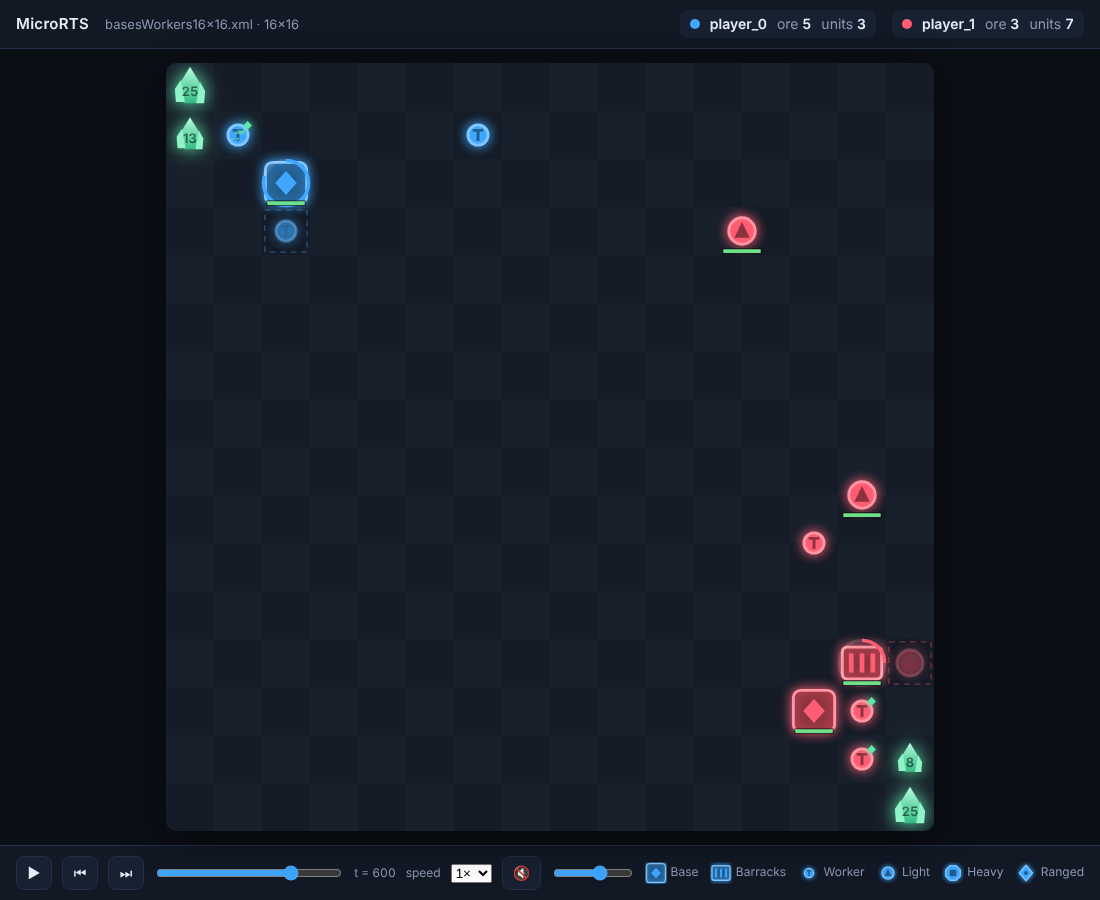
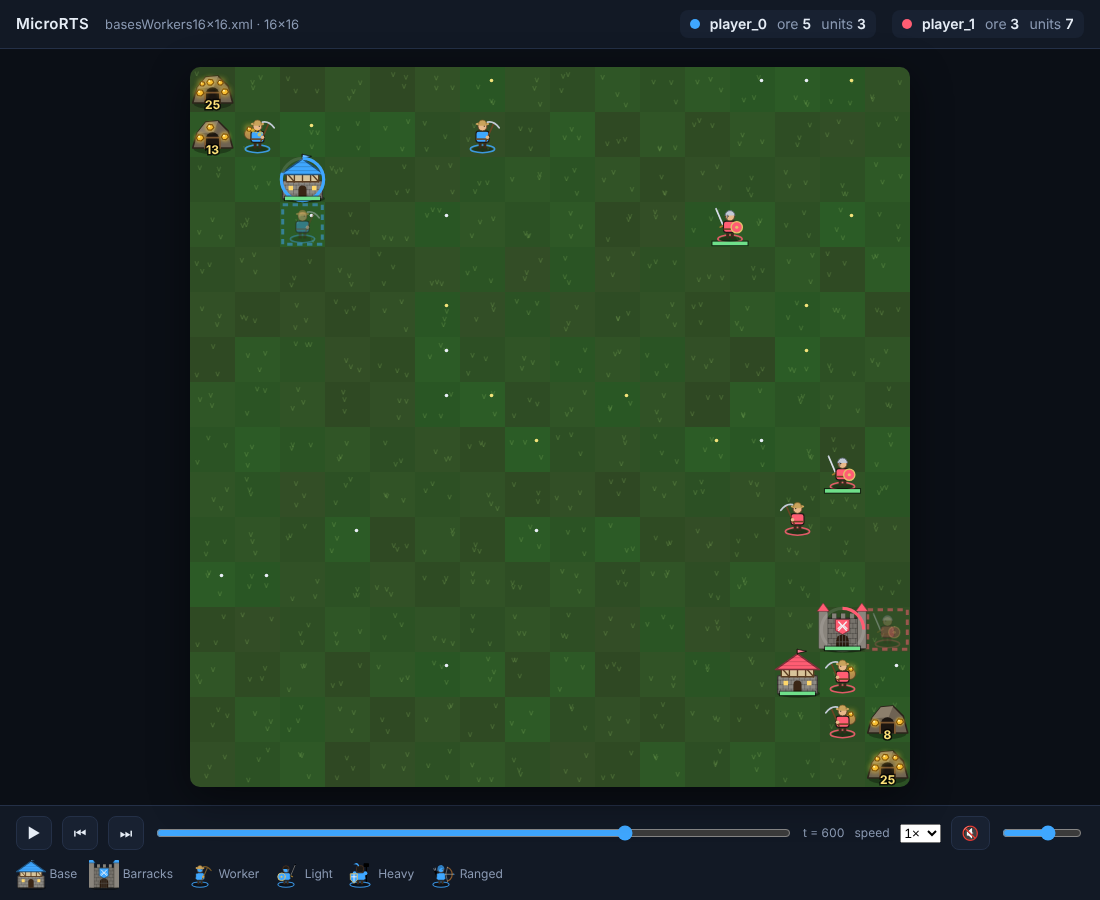
Redraw viewer art as recognisable RTS sprites
Town hall and fortified barracks with team-coloured roofs and banners,
peasants with pickaxes and gold sacks, swordsmen, armoured knights and
archers, gold mines and grass/rock terrain. Everything is still drawn in
code (no image assets); player 1 units are mirrored to face the enemy.
Static terrain is cached to an offscreen canvas. README screenshot refreshed.

Claude-Session: https://claude.ai/code/session_017XfcmLXvoAChBbNb37naRZ

diff --git a/microrts_pz/render/viewer.html b/microrts_pz/render/viewer.html
@@ -9,7 +9,7 @@
 <style>
   :root {
     --bg: #0b0f16; --panel: #121925; --panel-2: #182131; --line: #243047;
-    --text: #e6edf6; --muted: #8a99b2; --p0: #3fa7ff; --p1: #ff5d73; --gold: #5ee6a8;
+    --text: #e6edf6; --muted: #8a99b2; --p0: #3fa7ff; --p1: #ff5d73; --gold: #ffcc33;
   }
   * { box-sizing: border-box; }
   html, body { margin: 0; height: 100%; background: var(--bg); color: var(--text);
@@ -218,83 +218,222 @@ function shade(hex, k) {
   return `rgb(${f(r)},${f(g)},${f(b)})`;
 }
 
+// Everything below is drawn procedurally (no image assets). Sprites are drawn in a
+// local frame where the cell spans -1..1 on both axes, centred on the unit.
+function hash(x, y) {
+  let h = (x * 374761393 + y * 668265263) | 0;
+  h = Math.imul(h ^ (h >>> 13), 1274126177);
+  return ((h ^ (h >>> 16)) >>> 0) / 4294967296;
+}
+function circle(x, y, r) { ctx.beginPath(); ctx.arc(x, y, r, 0, Math.PI * 2); }
+function ellipse(x, y, rx, ry) { ctx.beginPath(); ctx.ellipse(x, y, rx, ry, 0, 0, Math.PI * 2); }
+function line(x0, y0, x1, y1) { ctx.beginPath(); ctx.moveTo(x0, y0); ctx.lineTo(x1, y1); ctx.stroke(); }
+function sprite(cx, cy, flip, fn) {
+  ctx.save(); ctx.translate(cx, cy); ctx.scale(flip ? -cell / 2 : cell / 2, cell / 2);
+  ctx.lineJoin = "round"; ctx.lineCap = "round"; ctx.lineWidth = 0.06;
+  fn(); ctx.restore();
+}
+
+var terrainCanvas = null, terrainKey = null;
 function drawTerrain() {
-  const W = meta.width, H = meta.height;
-  for (let y = 0; y < H; y++) for (let x = 0; x < W; x++) {
-    const wall = meta.terrain[y * W + x] === "1";
-    if (wall) {
-      ctx.fillStyle = "#2a3242"; ctx.fillRect(x * cell, y * cell, cell, cell);
-      ctx.fillStyle = "#353f53"; ctx.fillRect(x * cell + 2, y * cell + 2, cell - 4, cell * 0.45);
-      ctx.fillStyle = "#1e2531"; ctx.fillRect(x * cell + 2, y * cell + cell * 0.55, cell - 4, cell * 0.4);
-    } else {
-      ctx.fillStyle = (x + y) % 2 ? "#151c27" : "#18202c";
-      ctx.fillRect(x * cell, y * cell, cell, cell);
-    }
+  const W = meta.width, H = meta.height, key = [meta.terrain, W, H, cell, dpr].join("|");
+  if (terrainKey !== key) {                       // grass + rocks are static: render once
+    terrainKey = key; terrainCanvas = document.createElement("canvas");
+    terrainCanvas.width = W * cell * dpr; terrainCanvas.height = H * cell * dpr;
+    const orig = ctx; ctx = terrainCanvas.getContext("2d"); ctx.setTransform(dpr, 0, 0, dpr, 0, 0);
+    try {
+      for (let y = 0; y < H; y++) for (let x = 0; x < W; x++) {
+        const h = hash(x, y), px = x * cell, py = y * cell;
+        ctx.fillStyle = `hsl(${100 + h * 14},${34 + h * 8}%,${21.5 + ((x + y) % 2) * 0.7 + h * 2}%)`;
+        ctx.fillRect(px, py, cell, cell);
+        ctx.strokeStyle = "rgba(160,210,110,.16)"; ctx.lineWidth = Math.max(1, cell * 0.03);
+        for (let i = 0; i < 3; i++) {                // grass tufts
+          const gx = px + cell * (0.15 + 0.7 * hash(x * 7 + i, y * 3)), gy = py + cell * (0.2 + 0.7 * hash(x * 5, y * 11 + i));
+          line(gx, gy, gx - cell * 0.04, gy - cell * 0.1); line(gx, gy, gx + cell * 0.04, gy - cell * 0.1);
+        }
+        if (h > 0.9) { ctx.fillStyle = h > 0.95 ? "#f3e27a" : "#e9eef7"; circle(px + cell * 0.7, py + cell * 0.3, cell * 0.04); ctx.fill(); }
+      }
+      for (let y = 0; y < H; y++) for (let x = 0; x < W; x++) {
+        if (meta.terrain[y * W + x] !== "1") continue;
+        sprite((x + 0.5) * cell, (y + 0.5) * cell, false, () => {
+          ctx.fillStyle = "#3a3630"; ctx.fillRect(-1, -1, 2, 2);
+          const rocks = [[-0.45, 0.3, 0.55], [0.4, 0.35, 0.5], [0, -0.35, 0.62]];
+          for (const [rx, ry, r] of rocks) {
+            const j = hash(x * 13 + rx * 10, y * 17 + ry * 10) * 0.15;
+            poly([[rx - r, ry + r * 0.6], [rx - r * 0.8, ry - r * 0.4], [rx - r * 0.1, ry - r * (0.9 + j)], [rx + r * 0.75, ry - r * 0.5], [rx + r, ry + r * 0.55]]);
+            ctx.fillStyle = "#7d7568"; ctx.fill(); ctx.strokeStyle = "#26231f"; ctx.lineWidth = 0.07; ctx.stroke();
+            poly([[rx - r * 0.8, ry - r * 0.4], [rx - r * 0.1, ry - r * (0.9 + j)], [rx + r * 0.75, ry - r * 0.5], [rx, ry - r * 0.1]]);
+            ctx.fillStyle = "#a59c8c"; ctx.fill();
+          }
+        });
+      }
+    } finally { ctx = orig; }
   }
+  ctx.drawImage(terrainCanvas, 0, 0, W * cell, H * cell);
+}
+
+function nugget(x, y, r) {
+  poly([[x - r, y], [x - r * 0.4, y - r * 0.8], [x + r * 0.6, y - r * 0.7], [x + r, y + r * 0.1], [x + r * 0.3, y + r * 0.8], [x - r * 0.6, y + r * 0.7]]);
+  ctx.fillStyle = "#f5b82e"; ctx.fill(); ctx.strokeStyle = "#7a4d0a"; ctx.lineWidth = 0.05; ctx.stroke();
+  ctx.fillStyle = "#fff2a8"; circle(x - r * 0.25, y - r * 0.3, r * 0.28); ctx.fill();
 }
 
 function drawResource(cx, cy, amount) {
-  const s = cell * (0.28 + 0.14 * Math.min(1, amount / 20));
-  ctx.save(); ctx.shadowColor = ORE; ctx.shadowBlur = cell * 0.35;
-  const g = ctx.createLinearGradient(cx, cy - s, cx, cy + s);
-  g.addColorStop(0, "#b9ffe0"); g.addColorStop(1, "#1fa874");
-  ctx.fillStyle = g;
-  poly([[cx, cy - s], [cx + s * 0.55, cy - s * 0.1], [cx + s * 0.3, cy + s * 0.8], [cx - s * 0.3, cy + s * 0.8], [cx - s * 0.55, cy - s * 0.1]]);
-  ctx.fill();
-  ctx.fillStyle = "#8ff5c8";
-  poly([[cx - s * 0.75, cy + s * 0.1], [cx - s * 0.45, cy - s * 0.35], [cx - s * 0.25, cy + s * 0.75], [cx - s * 0.7, cy + s * 0.75]]); ctx.fill();
-  poly([[cx + s * 0.75, cy + s * 0.2], [cx + s * 0.5, cy - s * 0.25], [cx + s * 0.3, cy + s * 0.8], [cx + s * 0.7, cy + s * 0.8]]); ctx.fill();
-  ctx.restore();
+  const full = Math.min(1, amount / 20);
+  sprite(cx, cy, false, () => {
+    ctx.fillStyle = "rgba(0,0,0,.3)"; ellipse(0, 0.62, 0.85, 0.25); ctx.fill();
+    poly([[-0.88, 0.6], [-0.7, -0.05], [-0.3, -0.55], [0.25, -0.6], [0.7, -0.15], [0.9, 0.6]]);   // rocky mound
+    ctx.fillStyle = "#6e6253"; ctx.fill(); ctx.strokeStyle = "#2c241b"; ctx.lineWidth = 0.07; ctx.stroke();
+    poly([[-0.7, -0.05], [-0.3, -0.55], [0.25, -0.6], [0.05, -0.1]]); ctx.fillStyle = "#8c7f6c"; ctx.fill();
+    ctx.fillStyle = "#1c1611"; ctx.beginPath(); ctx.moveTo(-0.3, 0.6); ctx.lineTo(-0.3, 0.2);   // mine entrance
+    ctx.arc(0, 0.2, 0.3, Math.PI, 0); ctx.lineTo(0.3, 0.6); ctx.closePath(); ctx.fill();
+    ctx.strokeStyle = "#7a5530"; ctx.lineWidth = 0.08; line(-0.33, 0.6, -0.33, 0.15); line(0.33, 0.6, 0.33, 0.15); line(-0.38, 0.14, 0.38, 0.14);
+    const spots = [[-0.55, 0.15, 0.17], [0.55, 0.1, 0.16], [-0.1, -0.32, 0.16], [0.35, -0.3, 0.13], [-0.45, -0.25, 0.12]];
+    const n = Math.max(1, Math.round(full * spots.length));
+    ctx.save(); ctx.shadowColor = "#ffcf40"; ctx.shadowBlur = cell * 0.15 * full;
+    for (let i = 0; i < n; i++) nugget(...spots[i]);
+    ctx.restore();
+  });
   if (cell >= 22) {
-    ctx.fillStyle = "rgba(0,0,0,.55)"; ctx.font = `600 ${Math.round(cell * 0.28)}px ui-sans-serif, system-ui`;
-    ctx.textAlign = "center"; ctx.textBaseline = "middle"; ctx.fillText(amount, cx, cy + s * 0.25);
+    const fs = Math.round(cell * 0.26);
+    ctx.font = `700 ${fs}px ui-sans-serif, system-ui`; ctx.textAlign = "center"; ctx.textBaseline = "middle";
+    ctx.lineWidth = 3; ctx.strokeStyle = "rgba(0,0,0,.75)"; ctx.strokeText(amount, cx, cy + cell * 0.36);
+    ctx.fillStyle = "#ffe27a"; ctx.fillText(amount, cx, cy + cell * 0.36);
   }
 }
 
+// --- buildings
+function brickRows(x0, y0, x1, y1, rows) {
+  ctx.strokeStyle = "rgba(0,0,0,.28)"; ctx.lineWidth = 0.03;
+  const h = (y1 - y0) / rows;
+  for (let r = 1; r < rows; r++) line(x0, y0 + r * h, x1, y0 + r * h);
+  for (let r = 0; r < rows; r++) for (let x = x0 + (r % 2 ? 0.12 : 0.24); x < x1; x += 0.24) line(x, y0 + r * h, x, y0 + (r + 1) * h);
+}
+function flag(x, y, col, h) {
+  ctx.strokeStyle = "#3b2a1a"; ctx.lineWidth = 0.06; line(x, y, x, y - h);
+  poly([[x, y - h], [x + 0.4, y - h + 0.09], [x, y - h + 0.18]]); ctx.fillStyle = col; ctx.fill();
+  ctx.strokeStyle = shade(col, -0.5); ctx.lineWidth = 0.03; ctx.stroke();
+}
+function townHall(col, dark) {
+  ctx.fillStyle = "rgba(0,0,0,.35)"; ellipse(0.05, 0.85, 0.95, 0.18); ctx.fill();
+  rr(-0.88, 0.05, 1.76, 0.8, 0.05); ctx.fillStyle = "#8d8a84"; ctx.fill(); ctx.strokeStyle = "#3a3632"; ctx.lineWidth = 0.06; ctx.stroke();
+  brickRows(-0.88, 0.05, 0.88, 0.85, 4);
+  ctx.fillStyle = "#d8c49a"; ctx.fillRect(-0.72, -0.3, 1.44, 0.4);                              // timber upper floor
+  ctx.strokeStyle = "#5a3d22"; ctx.lineWidth = 0.06; ctx.strokeRect(-0.72, -0.3, 1.44, 0.4);
+  for (const x of [-0.36, 0, 0.36]) line(x, -0.3, x, 0.1);
+  line(-0.72, -0.3, -0.36, 0.1); line(0.36, -0.3, 0.72, 0.1);
+  poly([[-0.98, -0.22], [0, -0.92], [0.98, -0.22]]); ctx.fillStyle = col; ctx.fill();              // team roof
+  ctx.strokeStyle = dark; ctx.lineWidth = 0.07; ctx.stroke();
+  ctx.strokeStyle = "rgba(0,0,0,.22)"; ctx.lineWidth = 0.035;
+  for (let i = 1; i < 4; i++) line(-0.98 + i * 0.245, -0.22 - i * 0.175, 0.98 - i * 0.245, -0.22 - i * 0.175);
+  ctx.fillStyle = "#ffd76a"; ctx.fillRect(-0.62, 0.28, 0.2, 0.2); ctx.fillRect(0.42, 0.28, 0.2, 0.2);   // lit windows
+  ctx.fillStyle = "#3a2615"; ctx.beginPath(); ctx.moveTo(-0.18, 0.85); ctx.lineTo(-0.18, 0.45);          // door
+  ctx.arc(0, 0.45, 0.18, Math.PI, 0); ctx.lineTo(0.18, 0.85); ctx.closePath(); ctx.fill();
+  flag(0, -0.9, shade(col, 0.25), 0.22);
+}
+function barracks(col, dark) {
+  ctx.fillStyle = "rgba(0,0,0,.35)"; ellipse(0.05, 0.85, 0.95, 0.18); ctx.fill();
+  ctx.fillStyle = "#77736c"; ctx.strokeStyle = "#2f2c28"; ctx.lineWidth = 0.06;
+  rr(-0.86, -0.5, 1.72, 1.35, 0.04); ctx.fill(); ctx.stroke();
+  brickRows(-0.86, -0.5, 0.86, 0.85, 6);
+  for (let i = 0; i < 5; i++) {                                                                       // battlements
+    const x = -0.86 + i * 0.395; ctx.fillStyle = "#86827a"; ctx.fillRect(x, -0.72, 0.2, 0.24); ctx.strokeRect(x, -0.72, 0.2, 0.24);
+  }
+  for (const s of [-1, 1]) {                                                                          // side towers
+    rr(s * 0.86 - 0.2, -0.85, 0.4, 1.7, 0.04); ctx.fillStyle = "#8a857d"; ctx.fill(); ctx.stroke();
+    poly([[s * 0.86 - 0.26, -0.82], [s * 0.86, -1.18], [s * 0.86 + 0.26, -0.82]]); ctx.fillStyle = col; ctx.fill();
+    ctx.strokeStyle = dark; ctx.stroke(); ctx.strokeStyle = "#2f2c28";
+  }
+  poly([[-0.3, -0.45], [0.3, -0.45], [0.3, 0.05], [0, 0.22], [-0.3, 0.05]]); ctx.fillStyle = col; ctx.fill();   // banner
+  ctx.strokeStyle = dark; ctx.lineWidth = 0.04; ctx.stroke();
+  ctx.strokeStyle = "#f1f4f8"; ctx.lineWidth = 0.06; line(-0.17, -0.33, 0.17, 0.03); line(0.17, -0.33, -0.17, 0.03);  // crossed swords
+  ctx.lineWidth = 0.05; line(-0.2, -0.04, -0.08, -0.16); line(0.2, -0.04, 0.08, -0.16);
+  ctx.fillStyle = "#2a1a0d"; ctx.beginPath(); ctx.moveTo(-0.28, 0.85); ctx.lineTo(-0.28, 0.5);           // gate
+  ctx.arc(0, 0.5, 0.28, Math.PI, 0); ctx.lineTo(0.28, 0.85); ctx.closePath(); ctx.fill();
+  ctx.strokeStyle = "#5c5a57"; ctx.lineWidth = 0.035;
+  for (const x of [-0.14, 0, 0.14]) line(x, 0.25, x, 0.85);
+  line(-0.28, 0.55, 0.28, 0.55);
+}
+
+// --- people. Local frame: feet at y≈0.6, head at y≈-0.35; units face right (mirrored for player 1).
+var SKIN = "#e8b98a", LEATHER = "#6b4423", STEEL = "#c3cad6", STEEL_D = "#5d6675";
+function person(col, dark, k = 1, armour = null) {
+  ctx.fillStyle = "rgba(0,0,0,.35)"; ellipse(0, 0.66, 0.46 * k, 0.13); ctx.fill();
+  ctx.strokeStyle = col; ctx.lineWidth = 0.07; ctx.globalAlpha *= 0.85; ellipse(0, 0.64, 0.54 * k, 0.17); ctx.stroke();   // team ring
+  ctx.globalAlpha /= 0.85;
+  ctx.fillStyle = "#3a2a1c"; ctx.fillRect(-0.17 * k, 0.28, 0.13 * k, 0.34); ctx.fillRect(0.04 * k, 0.28, 0.13 * k, 0.34);   // legs
+  rr(-0.29 * k, -0.15, 0.58 * k, 0.5, 0.12); ctx.fillStyle = armour || col; ctx.fill();
+  ctx.strokeStyle = "#1d1a17"; ctx.lineWidth = 0.05; ctx.stroke();
+  if (armour) { ctx.fillStyle = col; ctx.fillRect(-0.1 * k, -0.13, 0.2 * k, 0.46); }                // team tabard
+  ctx.fillStyle = LEATHER; ctx.fillRect(-0.29 * k, 0.17, 0.58 * k, 0.07);                         // belt
+  circle(0, -0.36, 0.2); ctx.fillStyle = SKIN; ctx.fill(); ctx.strokeStyle = "#5a3b22"; ctx.lineWidth = 0.04; ctx.stroke();
+  ctx.fillStyle = "#1d1a17"; circle(0.08, -0.38, 0.03); ctx.fill();                               // eye (facing right)
+}
+function worker(col, dark, carrying) {
+  if (carrying) {                                                                                    // gold sack on the back
+    circle(-0.34, -0.02, 0.24); ctx.fillStyle = "#b08850"; ctx.fill(); ctx.strokeStyle = "#5b4020"; ctx.lineWidth = 0.04; ctx.stroke();
+    ctx.save(); ctx.shadowColor = "#ffcf40"; ctx.shadowBlur = cell * 0.15; nugget(-0.36, -0.24, 0.12); ctx.restore();
+  }
+  person(col, dark);
+  ctx.fillStyle = "#c9a35c"; ctx.beginPath(); ctx.ellipse(0, -0.47, 0.3, 0.08, 0, 0, Math.PI * 2); ctx.fill();   // straw hat
+  ctx.beginPath(); ctx.arc(0, -0.47, 0.17, Math.PI, 0); ctx.fill(); ctx.strokeStyle = "#7a5a26"; ctx.lineWidth = 0.03; ctx.stroke();
+  ctx.strokeStyle = LEATHER; ctx.lineWidth = 0.07; line(0.15, 0.3, 0.48, -0.45);                     // pickaxe
+  ctx.strokeStyle = "#9aa3b1"; ctx.lineWidth = 0.12; ctx.beginPath(); ctx.moveTo(0.26, -0.58); ctx.quadraticCurveTo(0.52, -0.6, 0.68, -0.34); ctx.stroke();
+  ctx.fillStyle = SKIN; circle(0.22, 0.12, 0.08); ctx.fill();
+}
+function swordsman(col, dark) {
+  ctx.strokeStyle = STEEL; ctx.lineWidth = 0.08; line(0.3, 0.05, 0.62, -0.7);                       // sword
+  ctx.strokeStyle = "#e9edf3"; ctx.lineWidth = 0.03; line(0.33, 0.0, 0.6, -0.64);
+  ctx.strokeStyle = "#a07a2c"; ctx.lineWidth = 0.07; line(0.18, -0.02, 0.44, 0.12);
+  person(col, dark);
+  ctx.fillStyle = STEEL; ctx.beginPath(); ctx.arc(0, -0.4, 0.22, Math.PI, 0); ctx.fill();           // helmet
+  ctx.strokeStyle = STEEL_D; ctx.lineWidth = 0.04; ctx.stroke(); line(0.12, -0.42, 0.12, -0.28);
+  circle(-0.3, 0.12, 0.25); ctx.fillStyle = col; ctx.fill(); ctx.strokeStyle = "#e3c26a"; ctx.lineWidth = 0.06; ctx.stroke();   // round shield
+  circle(-0.3, 0.12, 0.07); ctx.fillStyle = "#e3c26a"; ctx.fill();
+}
+function knight(col, dark) {
+  const k = 1.25;
+  ctx.strokeStyle = LEATHER; ctx.lineWidth = 0.09; line(0.42, 0.45, 0.42, -0.62);                     // war hammer
+  ctx.fillStyle = STEEL_D; rr(0.24, -0.78, 0.36, 0.24, 0.04); ctx.fill(); ctx.fillStyle = STEEL; ctx.fillRect(0.27, -0.75, 0.3, 0.08);
+  person(col, dark, k, STEEL);
+  ctx.fillStyle = STEEL; rr(-0.23, -0.62, 0.46, 0.46, 0.14); ctx.fill();                           // great helm
+  ctx.strokeStyle = STEEL_D; ctx.lineWidth = 0.04; ctx.stroke();
+  ctx.fillStyle = "#1d1a17"; ctx.fillRect(-0.02, -0.46, 0.22, 0.05); ctx.fillRect(0.06, -0.46, 0.04, 0.16);
+  ctx.fillStyle = col; ctx.beginPath(); ctx.moveTo(-0.05, -0.6); ctx.quadraticCurveTo(-0.15, -0.95, -0.45, -0.7);   // plume
+  ctx.quadraticCurveTo(-0.2, -0.75, -0.12, -0.58); ctx.fill();
+  ctx.fillStyle = STEEL; circle(-0.36, -0.12, 0.13); ctx.fill(); circle(0.36, -0.12, 0.13); ctx.fill();   // pauldrons
+  poly([[-0.62, -0.08], [-0.18, -0.08], [-0.18, 0.32], [-0.4, 0.55], [-0.62, 0.32]]);              // kite shield
+  ctx.fillStyle = col; ctx.fill(); ctx.strokeStyle = "#e3c26a"; ctx.lineWidth = 0.06; ctx.stroke();
+  ctx.strokeStyle = "#f1f4f8"; ctx.lineWidth = 0.06; line(-0.4, -0.02, -0.4, 0.42); line(-0.56, 0.12, -0.24, 0.12);
+}
+function archer(col, dark) {
+  ctx.fillStyle = LEATHER; ctx.save(); ctx.translate(-0.3, -0.05); ctx.rotate(-0.4); ctx.fillRect(-0.07, -0.3, 0.14, 0.42); ctx.restore();   // quiver
+  ctx.strokeStyle = "#e9edf3"; ctx.lineWidth = 0.03; line(-0.42, -0.3, -0.48, -0.42); line(-0.36, -0.33, -0.38, -0.46);
+  person(col, dark);
+  ctx.fillStyle = shade(col, -0.25); ctx.beginPath(); ctx.moveTo(-0.24, -0.25);                      // hood
+  ctx.quadraticCurveTo(-0.28, -0.7, 0.05, -0.66); ctx.quadraticCurveTo(0.26, -0.55, 0.22, -0.36); ctx.lineTo(0.14, -0.42);
+  ctx.quadraticCurveTo(0.0, -0.55, -0.1, -0.36); ctx.lineTo(-0.24, -0.25); ctx.fill();
+  ctx.strokeStyle = "#8b5a2b"; ctx.lineWidth = 0.08; ctx.beginPath(); ctx.arc(0.25, -0.05, 0.5, -1.2, 1.2); ctx.stroke();   // bow
+  const bx = 0.25 + 0.5 * Math.cos(1.2), by = 0.5 * Math.sin(1.2);
+  ctx.strokeStyle = "#f2efe6"; ctx.lineWidth = 0.025; line(bx, -0.05 - by, 0.32, -0.05); line(0.32, -0.05, bx, -0.05 + by);
+  ctx.strokeStyle = "#d9c9a8"; ctx.lineWidth = 0.035; line(0.32, -0.05, 0.85, -0.05);               // nocked arrow
+  ctx.fillStyle = STEEL; poly([[0.92, -0.05], [0.82, -0.11], [0.82, 0.01]]); ctx.fill();
+}
+
 function drawUnit(name, player, cx, cy, carrying, alpha) {
-  const col = COLORS[player] || "#999", dark = shade(col, -0.45), light = shade(col, 0.35);
+  const col = COLORS[player] || "#999", dark = shade(col, -0.5);
   ctx.save(); ctx.globalAlpha = alpha;
-  ctx.shadowColor = col; ctx.shadowBlur = cell * 0.25; ctx.lineWidth = Math.max(1, cell * 0.06); ctx.strokeStyle = light;
-  const s = cell / 2;
-  switch (name) {
-    case "Base":
-      rr(cx - s * 0.86, cy - s * 0.86, s * 1.72, s * 1.72, s * 0.3); ctx.fillStyle = dark; ctx.fill(); ctx.stroke();
-      ctx.shadowBlur = 0; ctx.fillStyle = col;
-      poly([[cx, cy - s * 0.5], [cx + s * 0.45, cy], [cx, cy + s * 0.5], [cx - s * 0.45, cy]]); ctx.fill();
-      break;
-    case "Barracks":
-      rr(cx - s * 0.82, cy - s * 0.66, s * 1.64, s * 1.32, s * 0.18); ctx.fillStyle = dark; ctx.fill(); ctx.stroke();
-      ctx.shadowBlur = 0; ctx.fillStyle = col;
-      for (let i = -1; i <= 1; i++) ctx.fillRect(cx + i * s * 0.45 - s * 0.1, cy - s * 0.4, s * 0.2, s * 0.8);
-      break;
-    case "Worker":
-      ctx.beginPath(); ctx.arc(cx, cy, s * 0.42, 0, Math.PI * 2); ctx.fillStyle = col; ctx.fill(); ctx.stroke();
-      ctx.shadowBlur = 0; ctx.fillStyle = dark; ctx.fillRect(cx - s * 0.06, cy - s * 0.25, s * 0.12, s * 0.5);
-      ctx.fillRect(cx - s * 0.22, cy - s * 0.25, s * 0.44, s * 0.11);
-      break;
-    case "Light":
-      ctx.beginPath(); ctx.arc(cx, cy, s * 0.55, 0, Math.PI * 2); ctx.fillStyle = col; ctx.fill(); ctx.stroke();
-      ctx.shadowBlur = 0; ctx.fillStyle = dark; poly([[cx, cy - s * 0.38], [cx + s * 0.32, cy + s * 0.28], [cx - s * 0.32, cy + s * 0.28]]); ctx.fill();
-      break;
-    case "Heavy": {
-      const r = s * 0.72, pts = [];
-      for (let i = 0; i < 8; i++) { const a = Math.PI / 8 + i * Math.PI / 4; pts.push([cx + r * Math.cos(a), cy + r * Math.sin(a)]); }
-      poly(pts); ctx.fillStyle = col; ctx.fill(); ctx.stroke();
-      ctx.shadowBlur = 0; ctx.fillStyle = dark; rr(cx - s * 0.3, cy - s * 0.3, s * 0.6, s * 0.6, s * 0.1); ctx.fill();
-      break;
+  sprite(cx, cy, player === 1 && name !== "Base" && name !== "Barracks", () => {
+    switch (name) {
+      case "Base": townHall(col, dark); break;
+      case "Barracks": barracks(col, dark); break;
+      case "Worker": worker(col, dark, carrying); break;
+      case "Light": swordsman(col, dark); break;
+      case "Heavy": knight(col, dark); break;
+      case "Ranged": archer(col, dark); break;
+      default: person(col, dark);
     }
-    case "Ranged":
-      poly([[cx, cy - s * 0.7], [cx + s * 0.6, cy], [cx, cy + s * 0.7], [cx - s * 0.6, cy]]); ctx.fillStyle = col; ctx.fill(); ctx.stroke();
-      ctx.shadowBlur = 0; ctx.beginPath(); ctx.arc(cx, cy, s * 0.18, 0, Math.PI * 2); ctx.fillStyle = dark; ctx.fill();
-      break;
-    default:
-      ctx.beginPath(); ctx.arc(cx, cy, s * 0.4, 0, Math.PI * 2); ctx.fillStyle = col; ctx.fill();
-  }
-  if (carrying) {
-    ctx.shadowColor = ORE; ctx.shadowBlur = cell * 0.2; ctx.fillStyle = ORE;
-    const gx = cx + s * 0.4, gy = cy - s * 0.4, gs = s * 0.18;
-    poly([[gx, gy - gs], [gx + gs, gy], [gx, gy + gs], [gx - gs, gy]]); ctx.fill();
-  }
+  });
   ctx.restore();
 }
 
@@ -522,7 +661,7 @@ function buildLegend() {
   const L = $("legend"); L.innerHTML = "";
   for (const name of ["Base", "Barracks", "Worker", "Light", "Heavy", "Ranged"]) {
     if (!typeNames.includes(name)) continue;
-    const c = document.createElement("canvas"), size = 22, k = window.devicePixelRatio || 1;
+    const c = document.createElement("canvas"), size = 30, k = window.devicePixelRatio || 1;
     c.width = size * k; c.height = size * k; c.style.width = size + "px"; c.style.height = size + "px";
     const cctx = c.getContext("2d"); cctx.setTransform(k, 0, 0, k, 0, 0);
     const orig = [ctx, cell];
